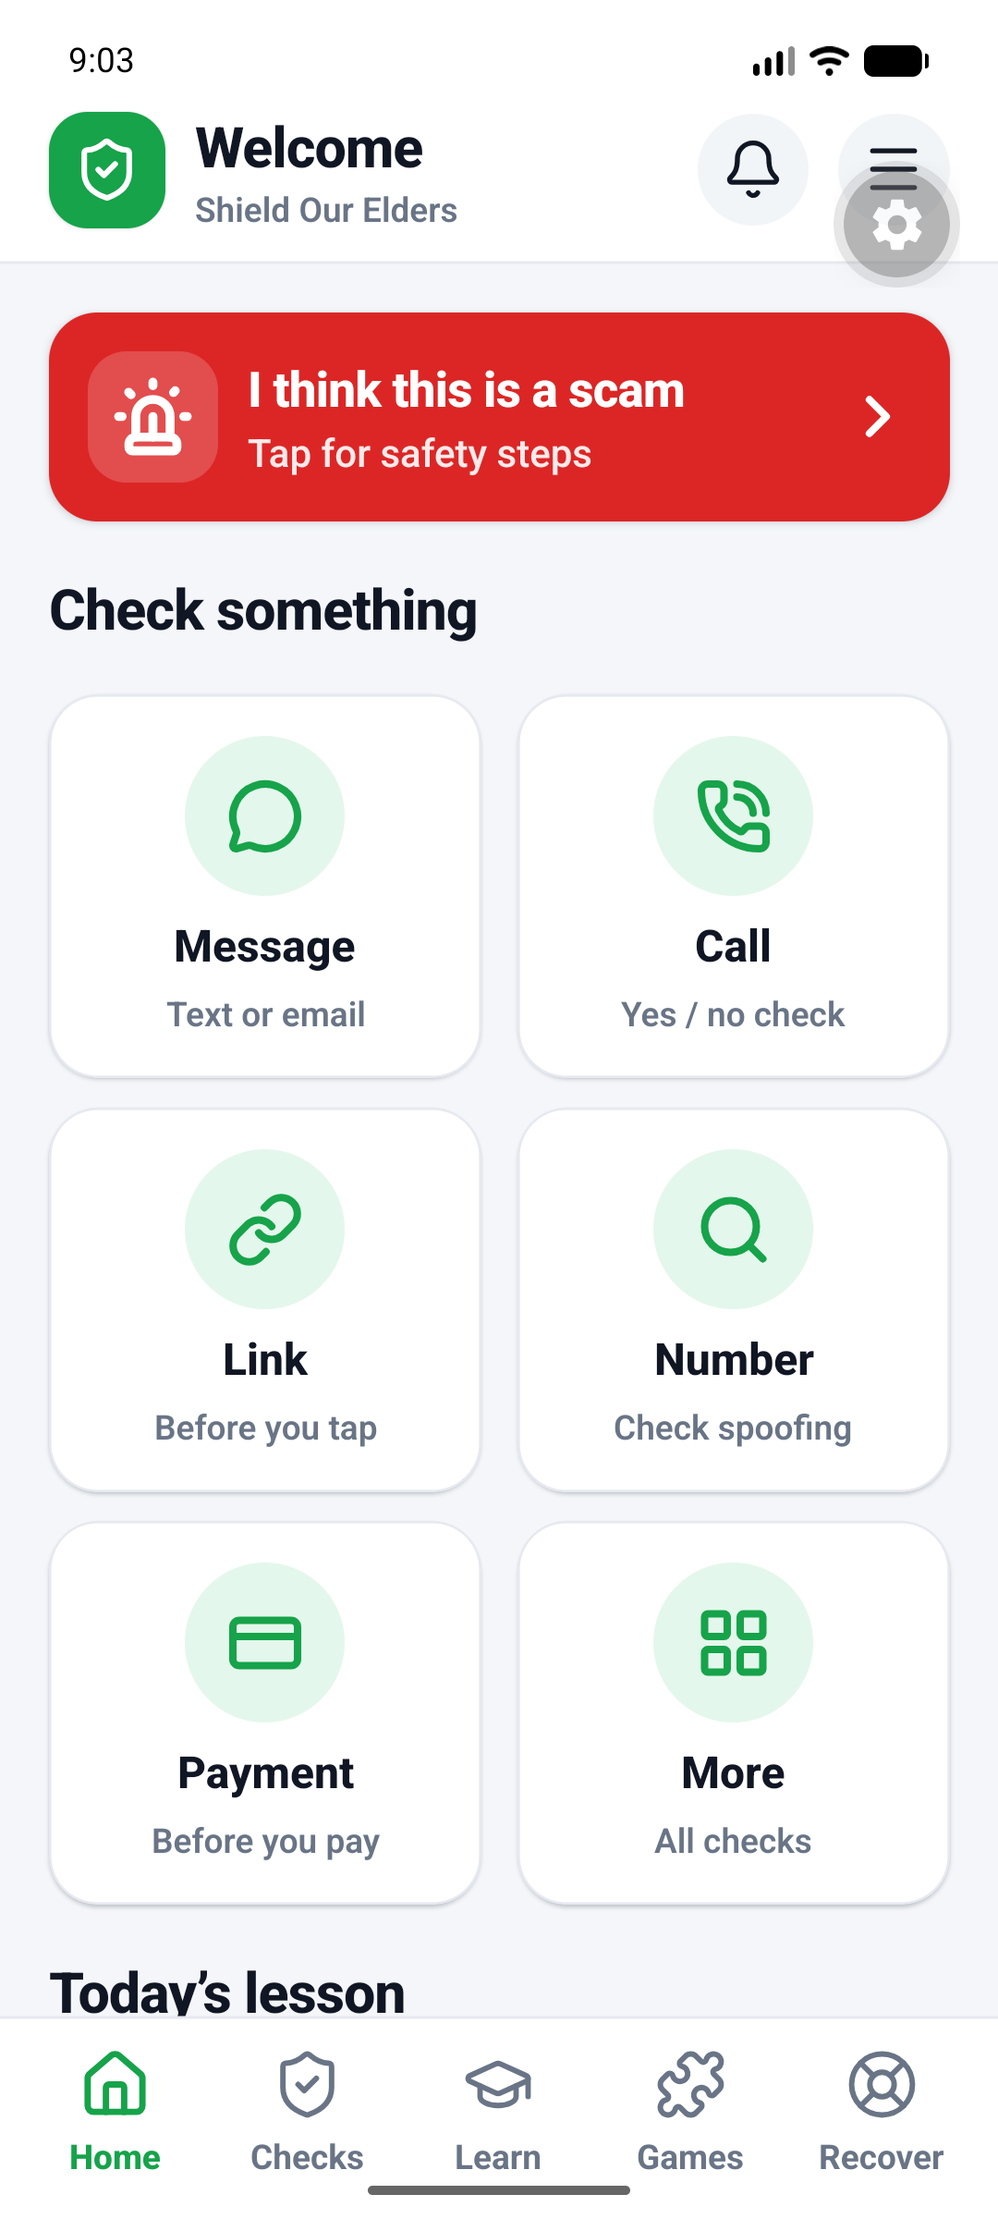
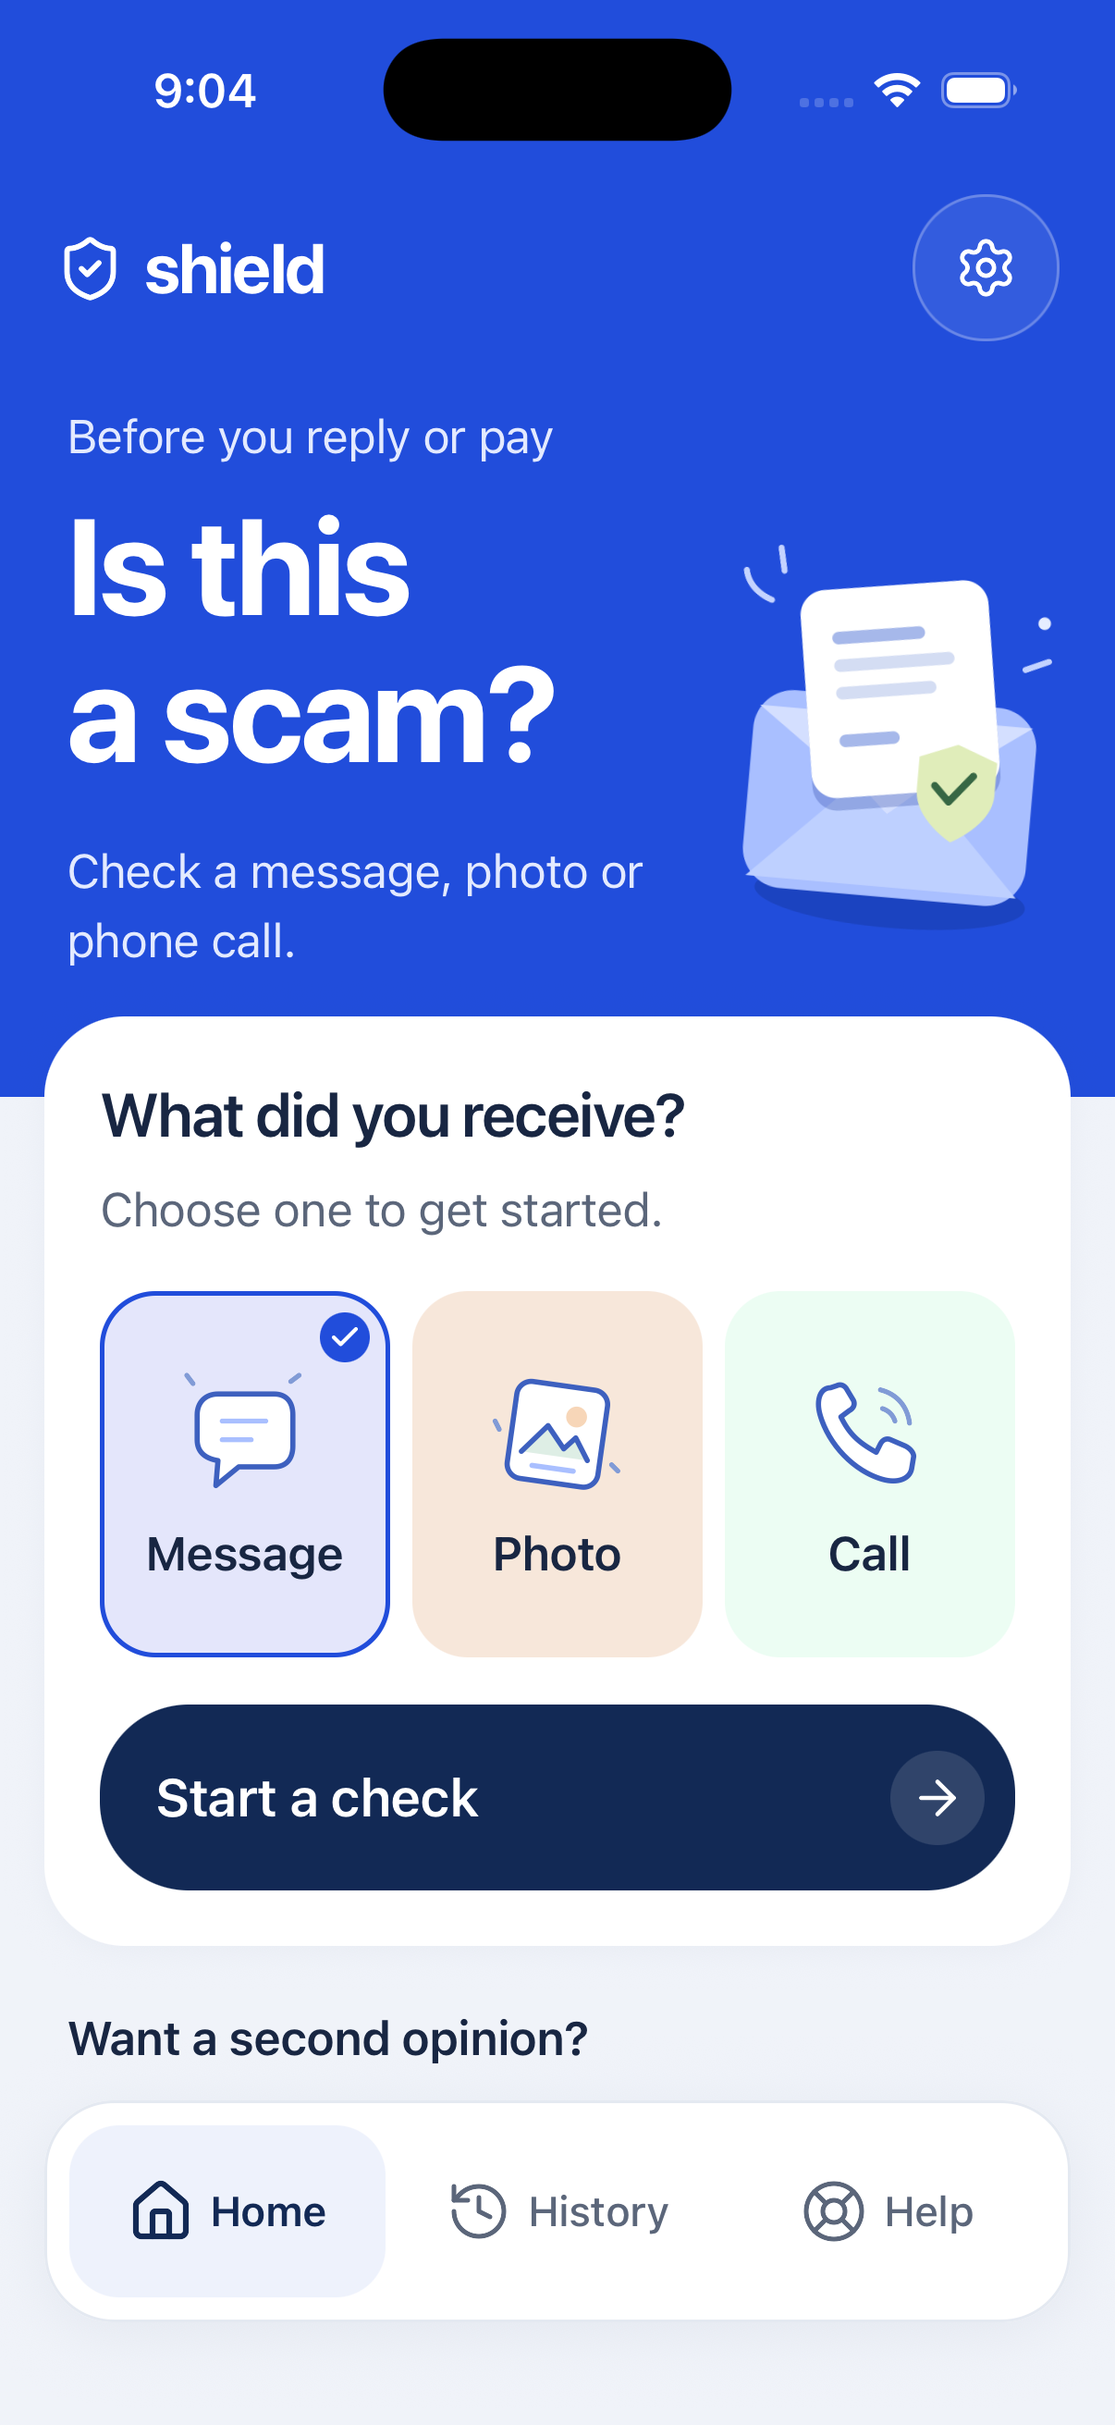
Match support and privacy pages to current offline iOS release

diff --git a/privacy.html b/privacy.html
@@ -10,7 +10,7 @@
     <meta property="og:title" content="Privacy Policy | Shield Our Elders" />
     <meta
       property="og:description"
-      content="How Shield Our Elders handles message text, screenshots, audio, links, QR codes, and trusted contacts."
+      content="How the iPhone app handles messages, screenshots, recordings, settings and trusted contacts."
     />
     <title>Privacy Policy | Shield Our Elders</title>
     <link rel="preconnect" href="https://fonts.googleapis.com" />
@@ -37,70 +37,29 @@
 
     <main class="legal-page">
       <section class="legal-hero">
-        <p class="eyebrow">Effective July 28, 2026</p>
+        <p class="eyebrow">Effective October 12, 2026</p>
         <h1>Privacy Policy</h1>
-        <p>
-          Shield Our Elders helps people check suspicious messages, calls, links,
-          QR codes, screenshots, voicemail transcripts, and payment requests.
-          This policy explains what the app handles and how it is used.
-        </p>
+        <p>How the iPhone app handles messages, screenshots, recordings, settings and trusted contacts.</p>
       </section>
-
-      <section class="legal-list" aria-label="Privacy details">
-        <article>
-          <h2>What you choose to provide</h2>
-          <p>
-            The app reviews only content you choose to enter, upload, scan, or
-            share with it. That may include pasted message text, email text,
-            URLs, phone numbers, QR code contents, screenshots, audio files,
-            voicemail transcripts, trusted contact details, settings, learning
-            progress, and support messages.
-          </p>
-        </article>
-        <article>
-          <h2>What the app does not automatically read</h2>
-          <p>
-            Shield Our Elders does not automatically read calls, text messages,
-            emails, contacts, photos, microphone audio, location, browsing
-            history, bank accounts, passwords, or payment apps. You stay in
-            control of what gets checked.
-          </p>
-        </article>
-        <article>
-          <h2>Online safety checks</h2>
-          <p>
-            Some checks may send selected content to service providers that help
-            run scam review, screenshot text extraction, speech-to-text,
-            hosting, security, analytics, or reliability services. These checks
-            are used for app functionality, not advertising or tracking.
-          </p>
-        </article>
-        <article>
-          <h2>Trusted contacts</h2>
-          <p>
-            Trusted contact names and phone numbers are stored so users can call
-            or text a family member, caregiver, neighbor, or other trusted
-            person. The app does not contact them unless the user chooses that
-            action.
-          </p>
-        </article>
-        <article>
-          <h2>Sharing and retention</h2>
-          <p>
-            We do not sell personal information. We share information only with
-            service providers needed to operate selected features, when required
-            by law, for safety and security, or when a user chooses to share
-            information with a trusted contact through their own phone or
-            messaging app.
-          </p>
-        </article>
-        <article>
-          <h2>Contact</h2>
-          <p>
-            For privacy questions, corrections, or deletion requests, email
-            <a href="mailto:projectshieldourelders@gmail.com">projectshieldourelders@gmail.com</a>.
-          </p>
-        </article>
+      <section class="legal-list" aria-label="Privacy Policy details">
+        <article><h2>Overview</h2><p>Shield Our Elders is designed to be local-first. Most information you enter stays on your device. The app does not require an account, does not sell personal data, does not show third-party ads, and does not track you across other apps or websites.</p></article>
+        <article><h2>Saved on your device</h2><p>Information stored on your device may include settings, accessibility choices, trusted contacts, a family verification phrase, learning progress, practice scores, recent checks, onboarding status, and other preferences you choose to save.</p></article>
+        <article><h2>Content you choose</h2><p>You may choose to enter or upload messages, emails, notes, screenshots, voicemail files, audio files, phone numbers, caller notes, payment choices, or safety checklist answers.</p></article>
+        <article><h2>Checks on your iPhone</h2><p>The iPhone app checks selected messages, call notes, and payment descriptions with a bundled model and device rules. Screenshot text extraction uses Apple Vision on the device. Audio recognition explicitly requires Apple&#x27;s on-device mode; if it is unavailable, you can enter the transcript yourself. These review paths do not upload messages, screenshots, or recordings.</p></article>
+        <article><h2>Training data</h2><p>The bundled model was fine-tuned on licensed public SMS examples. Your app content is not used to train it. A model result cannot verify someone&#x27;s identity or guarantee safety.</p></article>
+        <article><h2>Browser preview</h2><p>The separate browser preview can use an external analysis service only when its developer explicitly configures one. That preview&#x27;s selected content is processed by the configured service under its own privacy policy. This does not apply to the native iPhone review path.</p></article>
+        <article><h2>Permissions</h2><p>The app may ask for photo library access when you choose a screenshot, speech-recognition access when you choose to transcribe an audio file, notification permission for reminders or alerts, and phone or SMS actions when you choose to contact a trusted person. The app does not record microphone audio. The app does not listen in the background, automatically place calls, or send texts without your action.</p></article>
+        <article><h2>What we do not read</h2><p>The app does not automatically read your calls, text messages, emails, contacts, photos, microphone, location, or browsing activity. It only reviews content you choose to enter, upload, or share with it.</p></article>
+        <article><h2>Why information is used</h2><p>We use information to provide scam-safety checks, show explanations and next steps, save your settings, show learning progress, prevent duplicate requests, improve reliability, maintain safety features, and respond to support questions.</p></article>
+        <article><h2>Advertising and tracking</h2><p>We do not sell personal data, use personal data for third-party advertising, track you across apps or websites, or create advertising profiles.</p></article>
+        <article><h2>Outside services</h2><p>The native review does not share your content with analysis providers. Reading public scam alerts or opening an external website can disclose ordinary network information to that website. If you choose to search for a phone number on the web, that number is sent to your chosen search provider. Calling or texting someone uses your device&#x27;s phone or messaging app after your action.</p></article>
+        <article><h2>Storage and retention</h2><p>Local app data remains on your device until you delete it in Settings, uninstall the app, or reset the device. Check results may be cached temporarily in app memory to avoid duplicate requests. The native review does not create remote content logs.</p></article>
+        <article><h2>Delete your information</h2><p>You can delete local app data in Settings by using Delete all my data. You can also control app permissions in iOS or Android Settings.</p></article>
+        <article><h2>Age suitability</h2><p>Shield Our Elders is designed for older adults, families, caregivers, and community safety education. It is not directed to children under 13, and we do not knowingly collect personal information from children under 13.</p></article>
+        <article><h2>Device security</h2><p>Your device and its backups determine where local app data is stored. No device can be guaranteed to be completely secure. Include only the content necessary for the check.</p></article>
+        <article><h2>Policy updates</h2><p>We may update this Privacy Policy from time to time. If changes are important, we will make the updated Privacy Policy available in the app or through another reasonable notice.</p></article>
+        <article><h2>Contact</h2><p>Questions or requests about this Privacy Policy may be sent to projectshieldourelders@gmail.com.</p></article>
+        <article><h2>Acknowledgment</h2><p>By continuing, you acknowledge that you have read and understand this Privacy Policy.</p></article>
       </section>
     </main>
 

diff --git a/terms.html b/terms.html
@@ -10,7 +10,7 @@
     <meta property="og:title" content="Terms of Service | Shield Our Elders" />
     <meta
       property="og:description"
-      content="The terms for using Shield Our Elders as an educational scam safety tool."
+      content="Terms and limitations for Shield Our Elders."
     />
     <title>Terms of Service | Shield Our Elders</title>
     <link rel="preconnect" href="https://fonts.googleapis.com" />
@@ -37,67 +37,26 @@
 
     <main class="legal-page">
       <section class="legal-hero">
-        <p class="eyebrow">Effective July 28, 2026</p>
+        <p class="eyebrow">Effective October 12, 2026</p>
         <h1>Terms of Service</h1>
-        <p>
-          By using Shield Our Elders, you agree to use the app as an educational
-          scam-awareness and safety-support tool.
-        </p>
+        <p>Terms and limitations for Shield Our Elders.</p>
       </section>
-
-      <section class="legal-list" aria-label="Terms details">
-        <article>
-          <h2>Use of the service</h2>
-          <p>
-            Shield Our Elders provides scam-awareness tools, practice examples,
-            safety prompts, and plain-language next steps. You may use it to
-            check information you choose to submit, including messages, links,
-            QR codes, phone numbers, payment requests, screenshots, voicemail
-            transcripts, and related notes.
-          </p>
-        </article>
-        <article>
-          <h2>No guaranteed detection</h2>
-          <p>
-            The app can miss scams, incorrectly flag safe content, or provide an
-            incomplete explanation. Results are educational and should not be
-            treated as a guarantee that something is safe or unsafe.
-          </p>
-        </article>
-        <article>
-          <h2>Not professional advice</h2>
-          <p>
-            Shield Our Elders is not a bank, law firm, credit bureau, tax
-            advisor, medical provider, police department, emergency service, or
-            investment advisor. For urgent situations, contact your bank,
-            official company support line, local authorities, or a trusted
-            caregiver.
-          </p>
-        </article>
-        <article>
-          <h2>Your responsibilities</h2>
-          <p>
-            You are responsible for the information you submit and the decisions
-            you make after using the app. Do not submit unlawful content,
-            interfere with the service, harm others, or rely on the app as your
-            only safety step.
-          </p>
-        </article>
-        <article>
-          <h2>Sensitive information</h2>
-          <p>
-            Avoid submitting passwords, full account numbers, Social Security
-            numbers, complete card numbers, medical records, or other sensitive
-            information unless it is necessary to understand a safety concern.
-          </p>
-        </article>
-        <article>
-          <h2>Contact</h2>
-          <p>
-            Questions about these terms can be sent to
-            <a href="mailto:projectshieldourelders@gmail.com">projectshieldourelders@gmail.com</a>.
-          </p>
-        </article>
+      <section class="legal-list" aria-label="Terms of Service details">
+        <article><h2>Using the app</h2><p>Shield Our Elders is a scam-safety education app for older adults, families, caregivers, and community helpers. By using the app, you agree to these Terms.</p></article>
+        <article><h2>Features</h2><p>The app can help you review suspicious messages, calls, emails, screenshots, payment requests, and voicemail transcripts. It can also show learning tips, practice examples, trusted-contact tools, reminders, and recovery steps.</p></article>
+        <article><h2>Educational guidance</h2><p>The app is educational only. It is not a bank, lawyer, doctor, police agency, emergency service, cybersecurity company, tax expert, or financial advisor. It does not replace your bank, payment provider, attorney, doctor, local authorities, emergency services, or any qualified professional.</p></article>
+        <article><h2>Results can be wrong</h2><p>Scams change quickly. The app can make mistakes. It may miss a scam, mark a safe message as risky, or give an incomplete explanation. A low-risk result is not a promise that something is safe. A high-risk result is not proof that someone committed fraud. Treat the app as a second opinion, not a final decision.</p></article>
+        <article><h2>Urgent situations</h2><p>If you are in immediate danger, call your local emergency number. If money, account access, passwords, identity information, or device access may have been exposed, contact your bank, card issuer, payment provider, local authorities, and a trusted person as soon as possible.</p></article>
+        <article><h2>Your choices</h2><p>You are responsible for what you choose to paste, upload, save, send, call, text, open, report, or share. Before sending money, sharing codes, opening links, giving remote access, or responding to urgent requests, verify through an official phone number, official website, or trusted person.</p></article>
+        <article><h2>Trusted contacts</h2><p>The app can help you call or text trusted contacts using information you enter. Make sure those contact details are correct and that you have permission to save them. Messages created by the app are suggestions only, so review them before sending.</p></article>
+        <article><h2>How checks work</h2><p>The iPhone app includes a compact model for offline text checks. Screenshot reading uses Apple Vision. Audio requires on-device Apple speech recognition and may be unavailable on some devices. These checks can return incorrect results. The separate browser preview may use an analysis service only when explicitly configured.</p></article>
+        <article><h2>Acceptable use</h2><p>Do not misuse the app, interfere with it, use it to harm others, use it for unlawful purposes, or rely on it to make automated decisions about another person.</p></article>
+        <article><h2>Ownership</h2><p>Shield Our Elders and its content are owned by its creators or licensors. You may use the app for personal, educational, family, caregiver, and community safety purposes. You may not copy, sell, or redistribute the app except as allowed by law or with written permission.</p></article>
+        <article><h2>Availability and responsibility</h2><p>The app is provided as is and as available. To the maximum extent allowed by law, Shield Our Elders is not responsible for losses caused by use of the app, reliance on app results, third-party service errors, missed scams, false warnings, outages, account compromise, identity theft, lost money, or lost data.</p></article>
+        <article><h2>App Store providers</h2><p>If you downloaded the app from the Apple App Store or Google Play, Apple and Google are not responsible for the app&#x27;s maintenance, support, claims, or content except as required by their own platform terms.</p></article>
+        <article><h2>Updates</h2><p>We may update these Terms from time to time. If changes are important, we will make the updated Terms available in the app or through another reasonable notice.</p></article>
+        <article><h2>Contact</h2><p>Questions about these Terms may be sent to projectshieldourelders@gmail.com.</p></article>
+        <article><h2>Acknowledgment</h2><p>By continuing, you acknowledge that you have read and understand these Terms.</p></article>
       </section>
     </main>
 

diff --git a/support.html b/support.html
@@ -54,9 +54,25 @@
           <h2>App help</h2>
           <p>
             We can help with message checks, screenshot reading, voicemail
-            transcripts, QR code checks, trusted contacts, practice mode, and
+            transcripts, trusted contacts, practice mode, and
             accessibility settings.
           </p>
+        </article>
+        <article>
+          <h2>Checking a screenshot</h2>
+          <p>Choose Photo on Home and select a clear screenshot. Review the extracted words before checking. You can edit any words the app misread. If no text is found, crop the screenshot closer to the message or type the words.</p>
+        </article>
+        <article>
+          <h2>Checking a saved recording</h2>
+          <p>Choose Call and import an MP3, M4A or WAV from Files. Allow speech recognition when asked. English transcription requires offline speech recognition on your device. If it is unavailable or the recording is unclear, type or paste a transcript instead. The app does not record your microphone or listen to calls.</p>
+        </article>
+        <article>
+          <h2>Reading and deleting your information</h2>
+          <p>Open Settings to adjust text size, contrast, reading speed and motion. Use Delete all my data there to remove saved checks and preferences. You can also manage photo, speech and reminder permissions in iPhone Settings.</p>
+        </article>
+        <article>
+          <h2>What a result means</h2>
+          <p>A check can miss scams or flag an ordinary message. It cannot identify a caller or verify an organization. Verify unexpected requests for money, account access or codes through a number you already trust.</p>
         </article>
         <article>
           <h2>Scam emergency</h2>

diff --git a/index.html b/index.html
@@ -52,8 +52,8 @@
           </h1>
           <p class="hero-copy reveal">
             Shield Our Elders is a student-built app for older adults and the
-            people who look out for them. It checks suspicious texts, calls,
-            links, QR codes, and payment requests in plain language.
+            people who look out for them. It checks suspicious messages, screenshots, saved recordings
+            and payment requests in plain language.
           </p>
           <div class="hero-actions reveal">
             <a class="button primary" href="#check">
@@ -159,9 +159,9 @@
             <p>Money, secrecy, codes, threats, remote access.</p>
           </article>
           <article class="kit-item reveal">
-            <i data-lucide="qr-code"></i>
-            <h3>Link and QR check</h3>
-            <p>Look before opening.</p>
+            <i data-lucide="file-audio"></i>
+            <h3>Saved recordings</h3>
+            <p>Review a transcript before responding.</p>
           </article>
           <article class="kit-item reveal">
             <i data-lucide="credit-card"></i>
